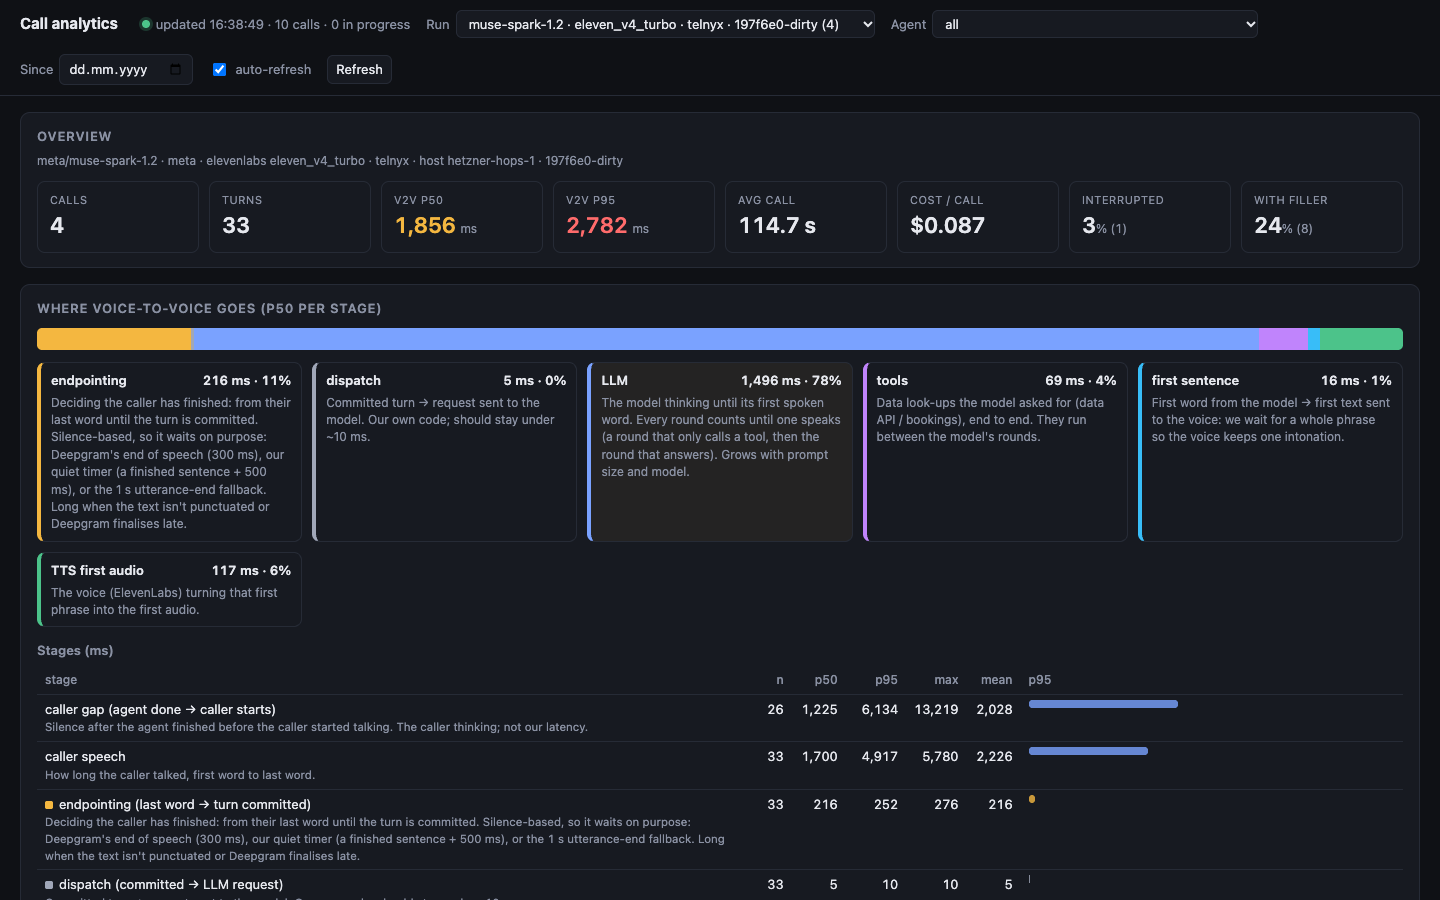
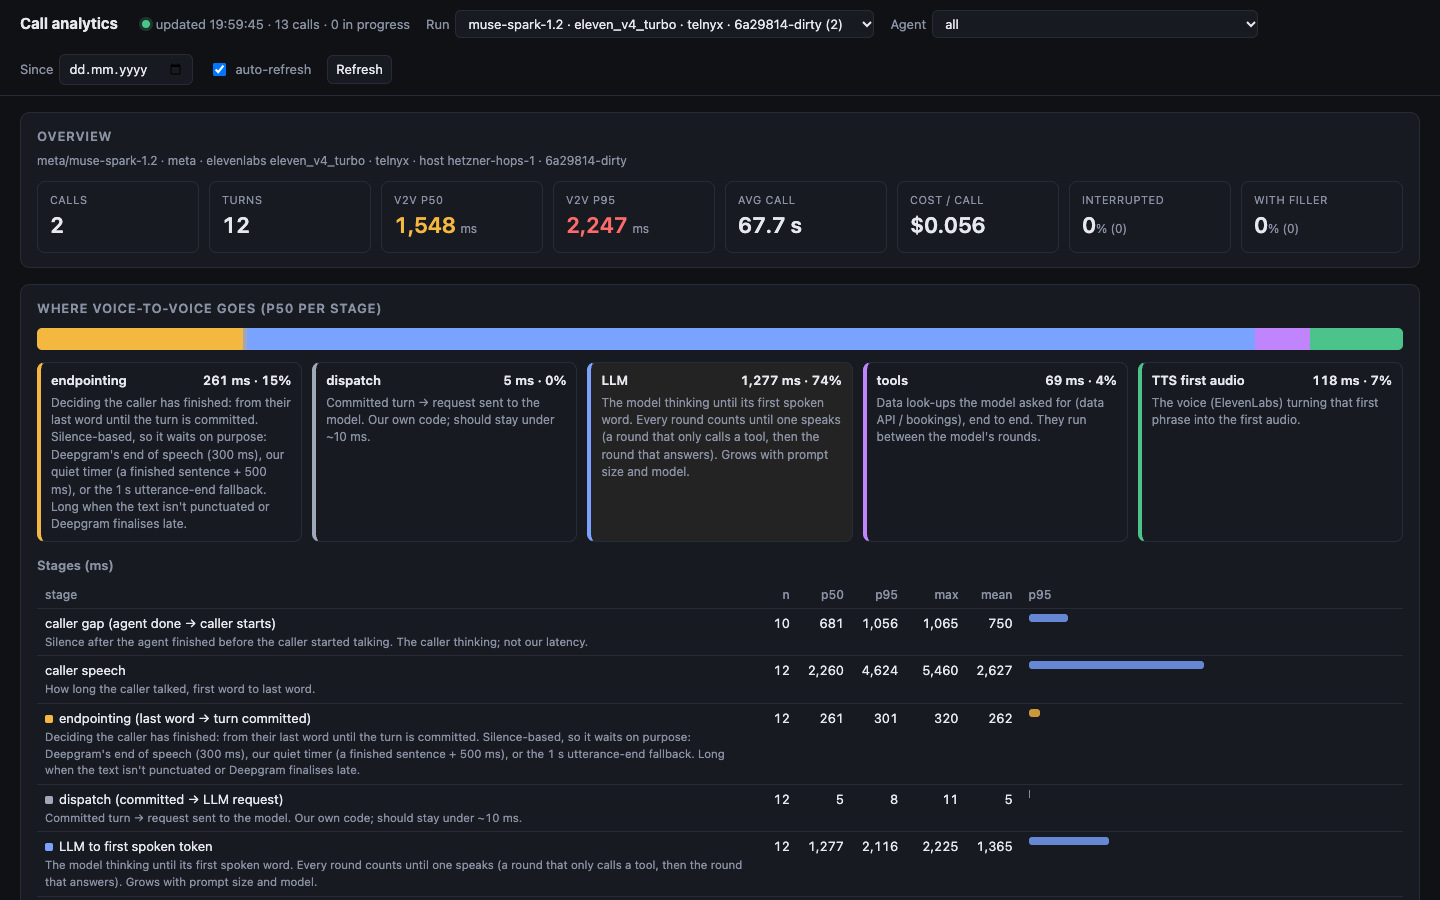
docs: update docs and readme

diff --git a/README.md b/README.md
@@ -40,13 +40,13 @@ flowchart LR
 
 ## What we built for the hackathon
 
-Khairo existed before the hackathon. We started on Meta's models the evening before kickoff (Oct 25), with
-speech-to-text, and built the rest during the event (Oct 27 – Nov 4). This repo was extracted from our private
-monorepo on Nov 4, so its history starts that day: everything in it is the Meta work below.
+Khairo existed before the hackathon. We started on Meta's models on Oct 27, the hackathon's first day, with
+speech-to-text (Muse Voice Transcribe), and built the rest during the event (Oct 27 – Nov 4). This repo was extracted
+from our private monorepo on Nov 4, so its history starts that day: everything in it is the Meta work below.
 
 | Date                    | Built                                                                                                                                                                                                                                                                                                                                                                                                                                                       | Where                                                                    |
 |-------------------------|-------------------------------------------------------------------------------------------------------------------------------------------------------------------------------------------------------------------------------------------------------------------------------------------------------------------------------------------------------------------------------------------------------------------------------------------------------------|--------------------------------------------------------------------------|
-| Oct 25–26, before kickoff | **Muse Voice Transcribe as the receptionist's ears.** Meta's realtime speech-to-text: the caller's audio streams over its WebSocket in 20 ms frames (endpointing mode, keywords biased to the business's services), and it returns the words and decides when the caller's turn has ended. We benchmarked it on our real Bulgarian calls before switching: 20% vs 30% word errors against Deepgram Nova-3, and every booking-critical word right | [`src/meta/muse-transcribe.ts`](src/meta/muse-transcribe.ts), production |
+| Oct 27, first day of the hackathon | **Muse Voice Transcribe as the receptionist's ears — the first thing we built for the event.** Meta's realtime speech-to-text: the caller's audio streams over its WebSocket in 20 ms frames (endpointing mode, keywords biased to the business's services), and it returns the words and decides when the caller's turn has ended. We benchmarked it on our real Bulgarian calls that day, before switching: 20% vs 30% word errors against Deepgram Nova-3, and every booking-critical word right | [`src/meta/muse-transcribe.ts`](src/meta/muse-transcribe.ts), production |
 | Nov 2–3                 | **Muse Spark as the receptionist's brain.** The streaming client with tools and `reasoning_effort`, an evaluation of Muse Spark 1.2 and 1.3 at three effort levels (right tool and inputs in 36 of 36 tries), then every live receptionist moved onto it                                                                                                                                                                                                     | [`src/meta/muse-spark.ts`](src/meta/muse-spark.ts), production           |
 | Nov 2                   | **Following the caller's language with Muse Voice Transcribe's code-switching.** English speech on a stream biased to Bulgarian comes back as English words, so the call switches language from the caller's first sentence without reopening the stream. On Nov 4 we found it works the other way too: Bulgarian on this repo's English line comes back in Cyrillic                                                                                    | [`src/language.ts`](src/language.ts), production                         |
 | Nov 4                   | **Turns that don't wait in silence.** Muse Spark echoes the caller's request while a tool runs; in production, Meta's Llama 3.3 writes a two-word acknowledgement in parallel when Muse Spark goes straight to a tool. Also: one question per turn, two offered times, today's date in context, and hanging up on a silent line                                                                                                                             | [`src/receptionist.ts`](src/receptionist.ts), production                 |
@@ -132,7 +132,7 @@ caller › No, Friday won't work, I need it Thursday morning and need the car ba
 
 ## Benchmarks
 
-**Muse Voice Transcribe vs Deepgram Nova-3, Oct 25** (with our production code, before kickoff). 5 real Bulgarian phone calls (536 s, 32 caller turns, made by our
+**Muse Voice Transcribe vs Deepgram Nova-3, Oct 27** (the first work for the hackathon, with our production code). 5 real Bulgarian phone calls (536 s, 32 caller turns, made by our
 team to a test line), streamed at real-time pace in 20 ms frames through our production provider classes:
 
 | Speech-to-text                                    | Word error rate | Booking words right | End of turn after the last word (p50 / p90 / max) |
